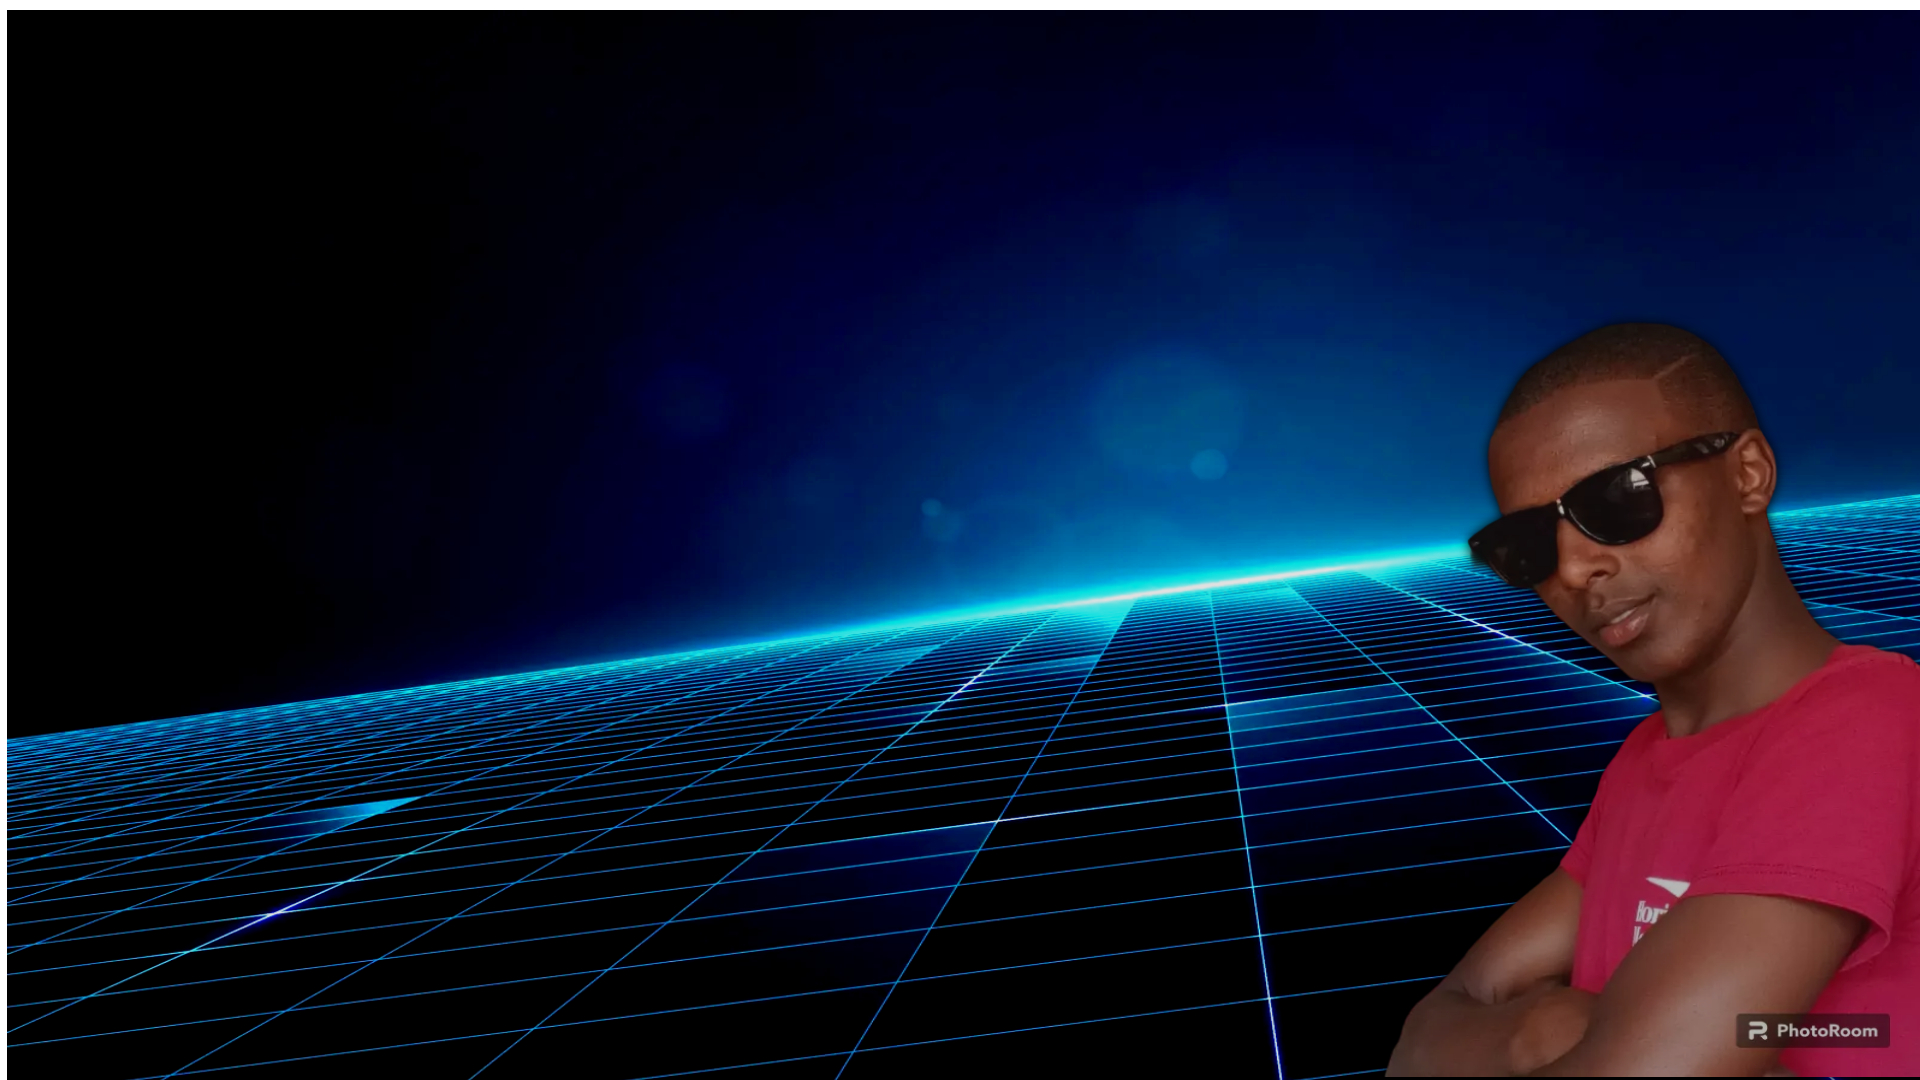
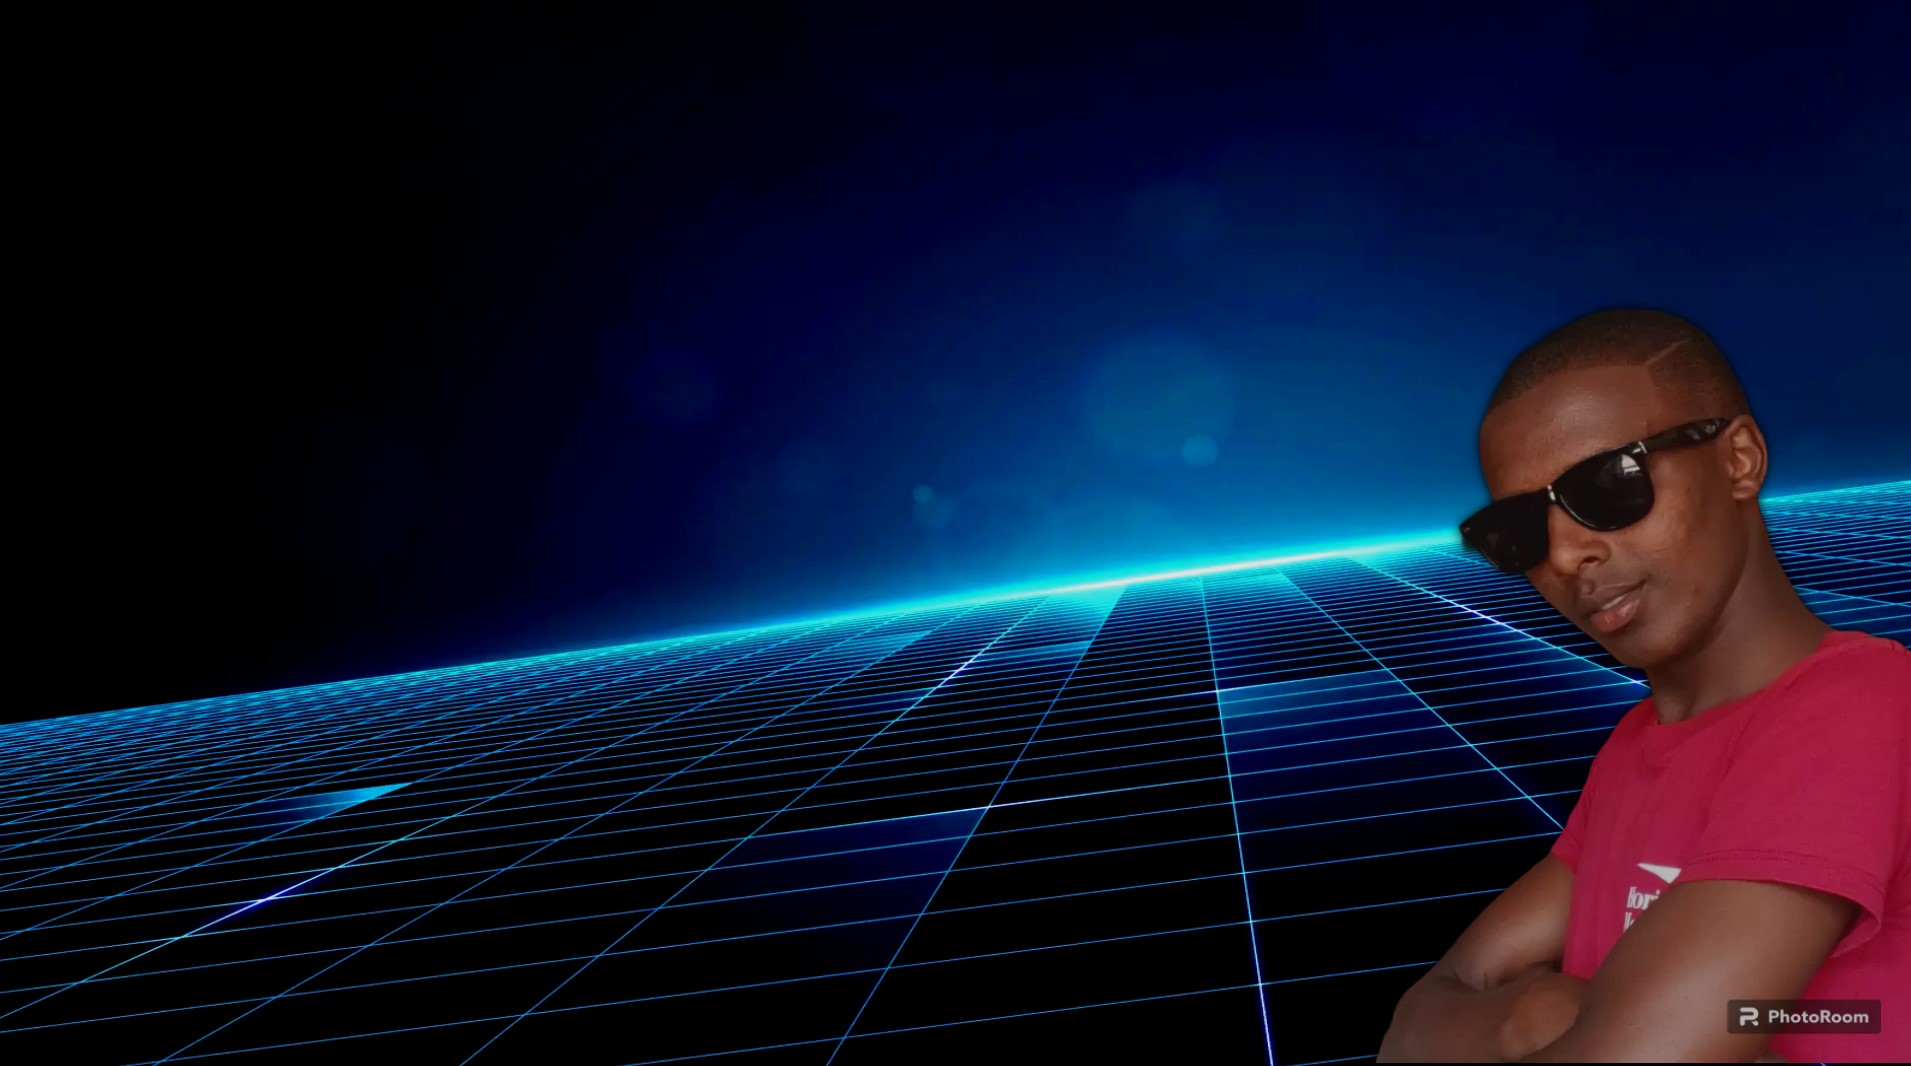
Background image set to fit

diff --git a/index.css b/index.css
@@ -13,6 +13,7 @@ html {
 body {
     color: #fff;
     background-image: url(images/bg-tech.jpg);
+    background-position: center;
     background-repeat: no-repeat;
     background-attachment: fixed;
     background-size: cover;
@@ -29,6 +30,7 @@ p {
     background-image: url(images/Bg_Desktop.jpg);
     background-size: cover;
     background-position: center center;
+    background-attachment: fixed;
 }
 .container {
     padding: 10px 5%;
